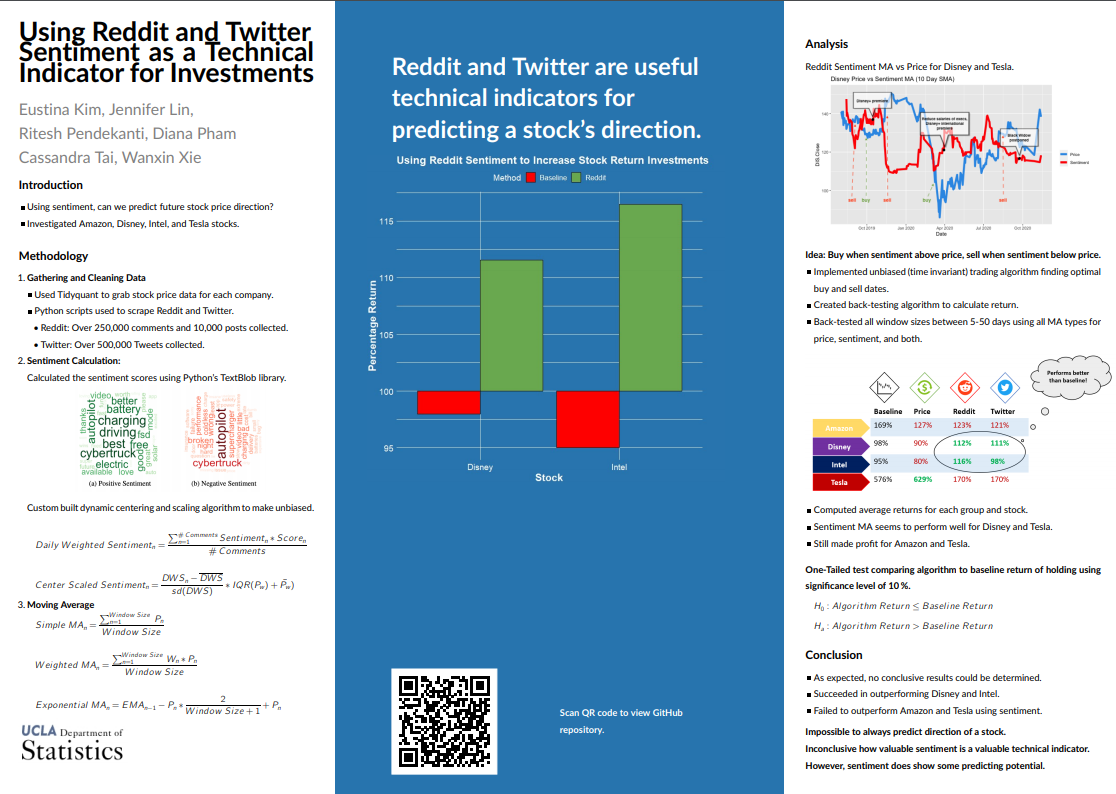
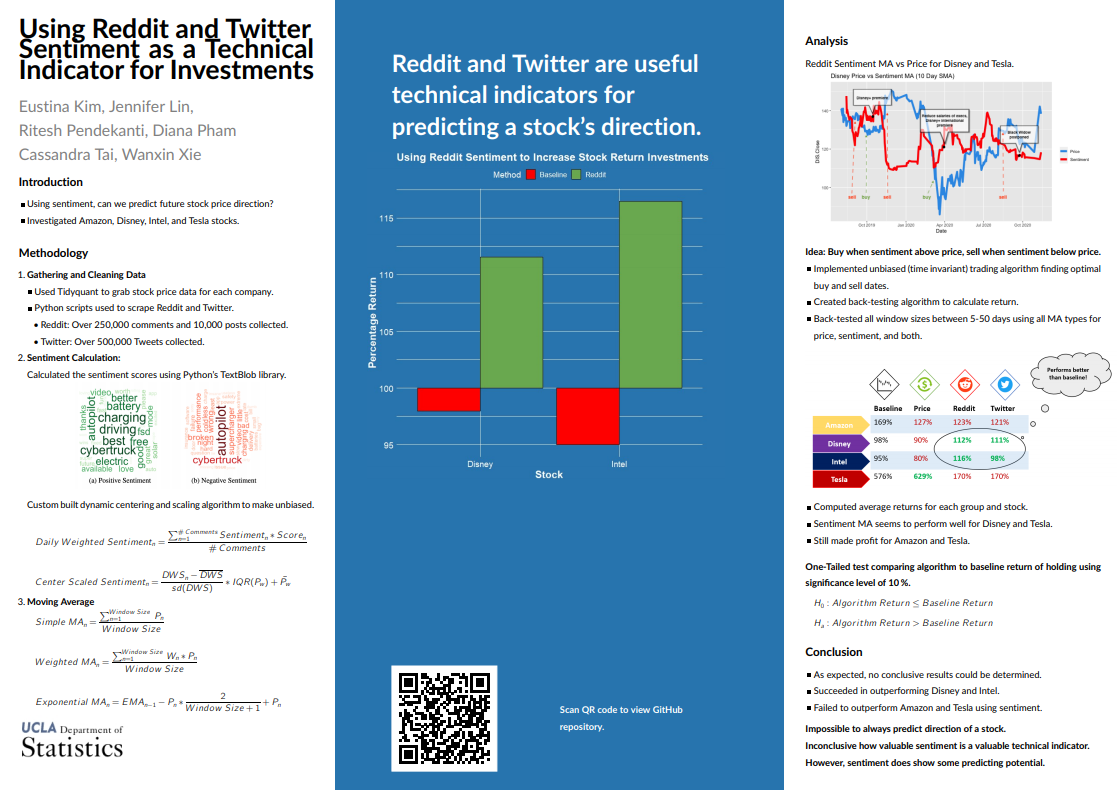
minor mistake in poster

diff --git a/README.md b/README.md
@@ -7,7 +7,7 @@ For our project, we used Reddit Sentiment as a technical indicator to predict wh
 
 ## Project Poster
 Our submission poster presented:
-![](https://imgur.com/jmweiSM.png)
+![](https://imgur.com/UmQDFDT.png)
 
 ## How to run
 Follow the steps below to get files running.
